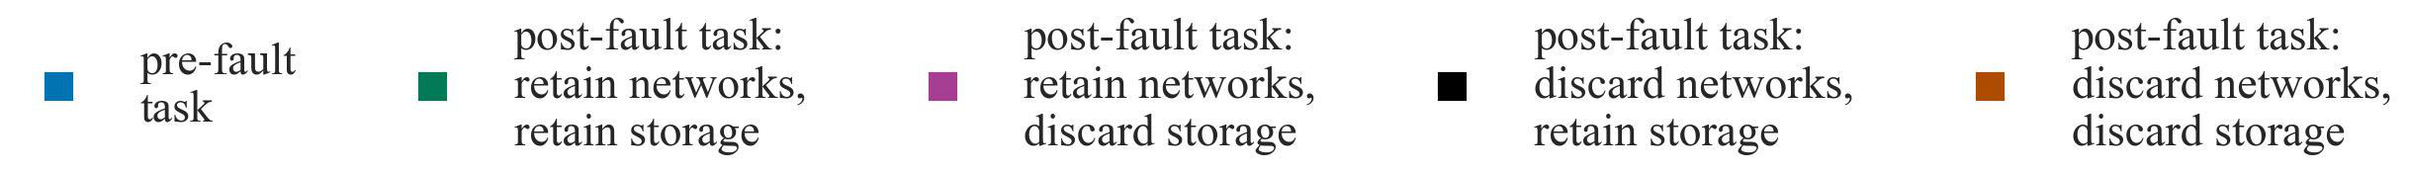
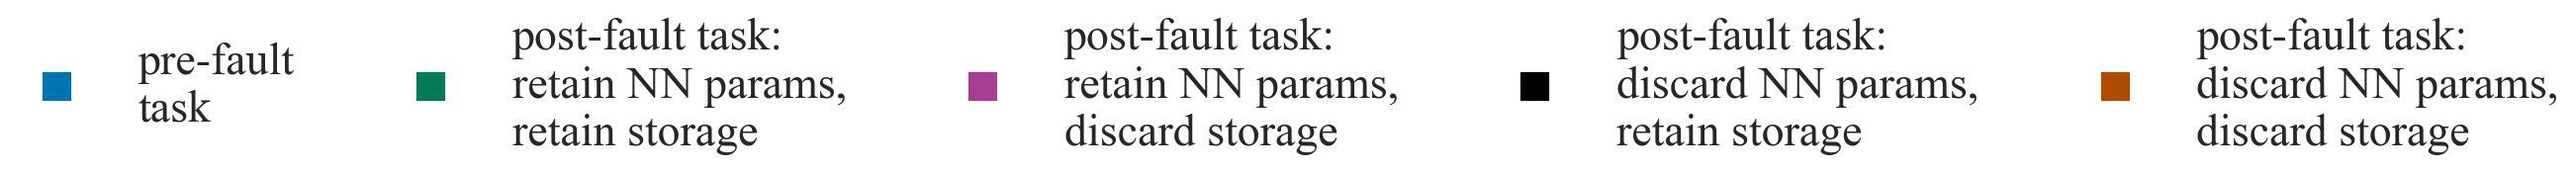
updated legend

diff --git a/plot/paper/plots.py b/plot/paper/plots.py
@@ -461,7 +461,7 @@ def legend():
 
     f = lambda m, c: plt.plot([], [], marker=m, color=c, ls="none")[0]
     handles = [f("s", palette_colours[i]) for i in range(5)]
-    labels = ["pre-fault\ntask", "post-fault task:\nretain networks,\nretain storage", "post-fault task:\nretain networks,\ndiscard storage", "post-fault task:\ndiscard networks,\nretain storage", "post-fault task:\ndiscard networks,\ndiscard storage"]
+    labels = ["pre-fault\ntask", "post-fault task:\nretain NN params,\nretain storage", "post-fault task:\nretain NN params,\ndiscard storage", "post-fault task:\ndiscard NN params,\nretain storage", "post-fault task:\ndiscard NN params,\ndiscard storage"]
     legend = plt.legend(handles, labels, ncol=5, loc=1, framealpha=1, frameon=False)
 
     def export_legend(legend, filename="legend.jpg"):
@@ -486,7 +486,7 @@ def legend2():
     handles_ = [e()]
     handles = [f("s", palette_colours[i]) for i in range(1, 5)]
     handles.insert(0, handles_[0])
-    labels = ["pre-fault\ntask", "post-fault task:\nretain networks,\nretain storage", "post-fault task:\nretain networks,\ndiscard storage", "post-fault task:\ndiscard networks,\nretain storage", "post-fault task:\ndiscard networks,\ndiscard storage"]
+    labels = ["pre-fault\ntask", "post-fault task:\nretain NN params,\nretain storage", "post-fault task:\nretain NN params,\ndiscard storage", "post-fault task:\ndiscard NN params,\nretain storage", "post-fault task:\ndiscard NN params,\ndiscard storage"]
     legend = plt.legend(handles, labels, ncol=5, loc=1, framealpha=1, frameon=False)
 
     def export_legend(legend, filename="legend2.jpg"):
